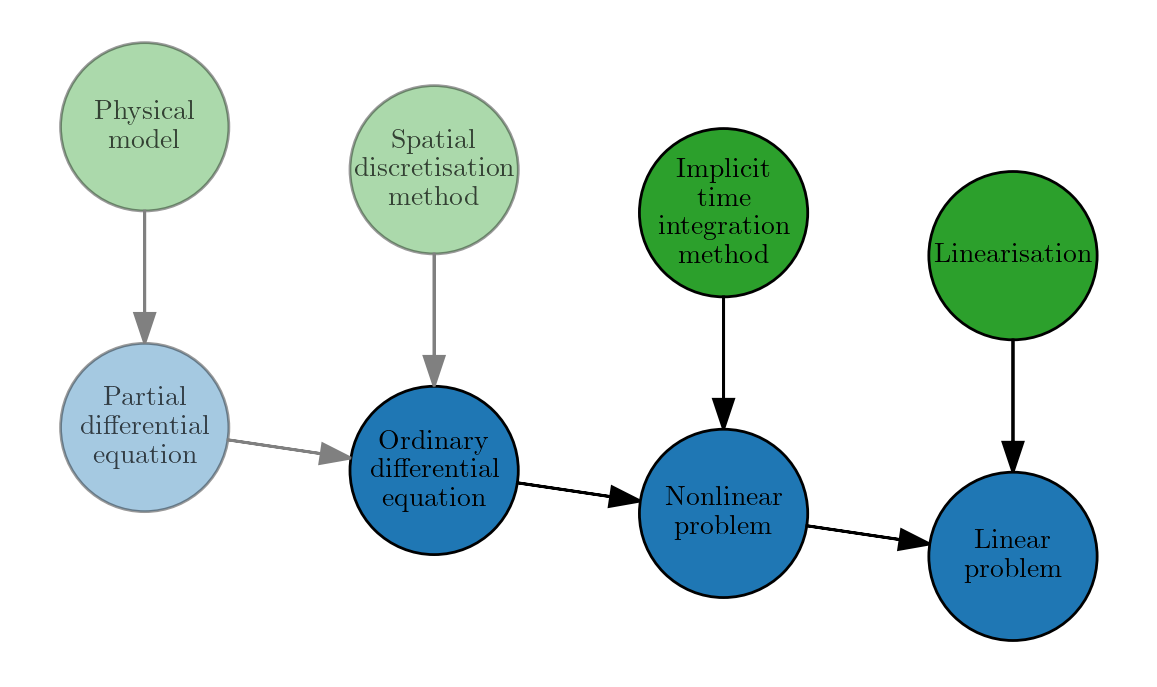
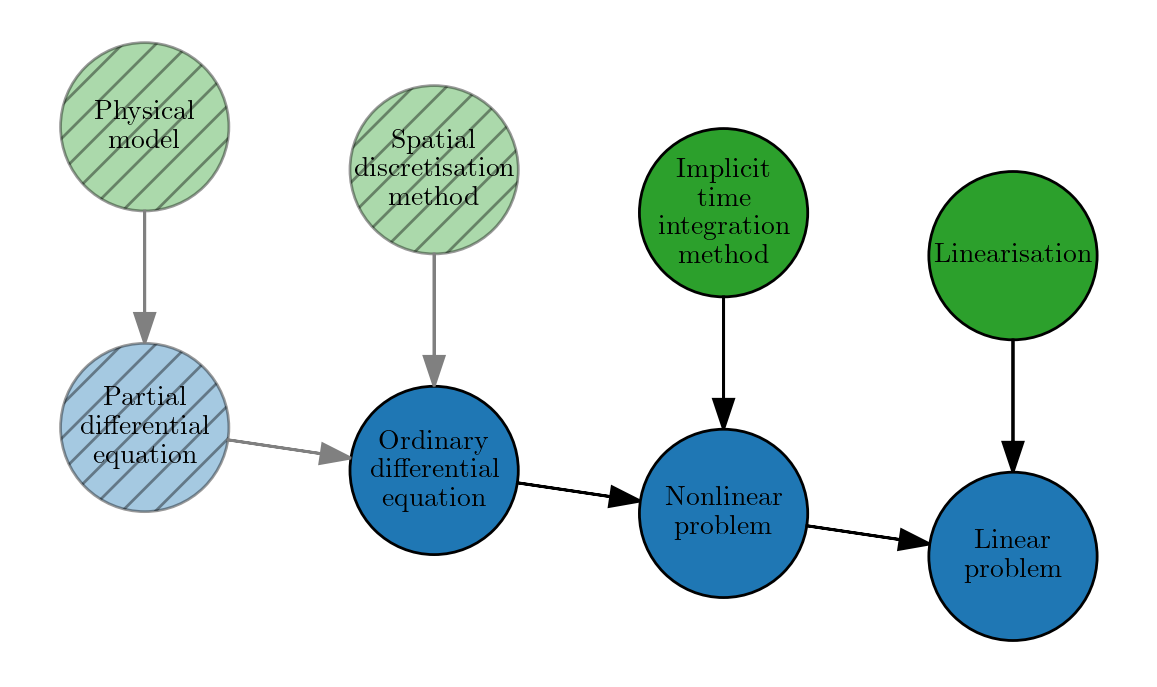
Greyed --> hatched

Changed region(s): [[0.3111, 0.1223, 0.4356, 0.3668], [0.0622, 0.0611, 0.1867, 0.3057], [0.0622, 0.5197, 0.1867, 0.7336]]

diff --git a/figures/figures_matplotlib.py b/figures/figures_matplotlib.py
@@ -162,21 +162,21 @@ def steady_solve():
     y = ly - r - np.array([1, 2, 3, 4, 8, 9, 10, 11]) * ly / 16
 
     p = {'transform': transform, 'ec': 'k'}
-    fig.add_artist(plt.Circle((x[0], y[0]), r, fc='tab:green', alpha=0.4, **p))
-    fig.add_artist(plt.Circle((x[1], y[1]), r, fc='tab:green', alpha=0.4, **p))
+    fig.add_artist(plt.Circle((x[0], y[0]), r, fc='tab:green', alpha=0.4, hatch='//', **p))
+    fig.add_artist(plt.Circle((x[1], y[1]), r, fc='tab:green', alpha=0.4, hatch='//', **p))
     fig.add_artist(plt.Circle((x[2], y[2]), r, fc='tab:green', **p))
     fig.add_artist(plt.Circle((x[3], y[3]), r, fc='tab:green', **p))
-    fig.add_artist(plt.Circle((x[4], y[4]), r, fc='tab:blue', alpha=0.4, **p))
+    fig.add_artist(plt.Circle((x[4], y[4]), r, fc='tab:blue', alpha=0.4, hatch='//', **p))
     fig.add_artist(plt.Circle((x[5], y[5]), r, fc='tab:blue', **p))
     fig.add_artist(plt.Circle((x[6], y[6]), r, fc='tab:blue', **p))
     fig.add_artist(plt.Circle((x[7], y[7]), r, fc='tab:blue', **p))
 
     p = {'transform': transform, 'va': 'center', 'ha': 'center'}
-    fig.add_artist(plt.Text(x[0], y[0], "Physical\nmodel", alpha=0.7, **p))
-    fig.add_artist(plt.Text(x[1], y[1], "Spatial\ndiscretisation\nmethod", alpha=0.7, **p))
+    fig.add_artist(plt.Text(x[0], y[0], "Physical\nmodel", **p))
+    fig.add_artist(plt.Text(x[1], y[1], "Spatial\ndiscretisation\nmethod", **p))
     fig.add_artist(plt.Text(x[2], y[2], "Implicit\ntime\nintegration\nmethod", **p))
     fig.add_artist(plt.Text(x[3], y[3], "Linearisation", **p))
-    fig.add_artist(plt.Text(x[4], y[4], "Partial\ndifferential\nequation", alpha=0.7, **p))
+    fig.add_artist(plt.Text(x[4], y[4], "Partial\ndifferential\nequation", **p))
     fig.add_artist(plt.Text(x[5], y[5], "Ordinary\ndifferential\nequation", **p))
     fig.add_artist(plt.Text(x[6], y[6], "Nonlinear\nproblem", **p))
     fig.add_artist(plt.Text(x[7], y[7], "Linear\nproblem", **p))
@@ -626,7 +626,7 @@ def sphere_mte_residuals():
             ax.semilogy(x, np.power(10, y), label='Midpoint method')
             p.reset_offset(['INIT/RUN_1', 'INIT/RUN_2'])
             x, y, _ = p.get('MF/RUN_1')
-            ax.semilogy(x, np.power(10, y),label='JFNK method')
+            ax.semilogy(x, np.power(10, y), label='JFNK method')
             ax.set_title('')
             ax.set_ylabel(title)
             ax.set_xlim(-500, 7999)

diff --git a/1.tex b/1.tex
@@ -752,7 +752,7 @@
       Newton's method used to solve such problems is going to produce a succession of linear problems in the form of equation (\ref{eq:linear}).
       This complicated sequence of operations describes the time integration procedure used in our solver to find the solution to steady problems.
       It is schematised in figure \ref{fig:steady_solve}, where the blue circles correspond to the problems being solved, while green circles correspond to the methods used to solve them.
-      In this thesis, we are interested in the non-greyed parts.\GP{J'ai pas compris ce qui est non grisé... Aurais-je un souci d'affichage ?}
+      In this thesis, we are interested in the non-hatched parts.\GP{J'ai pas compris ce qui est non grisé... Aurais-je un souci d'affichage ?}
 
       \begin{figure}
         \centering
